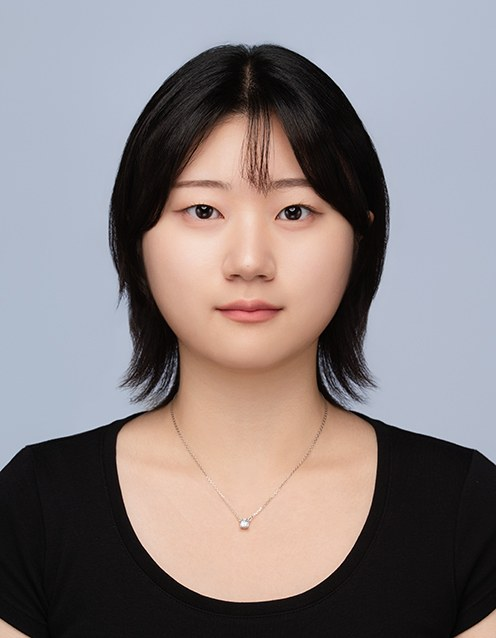
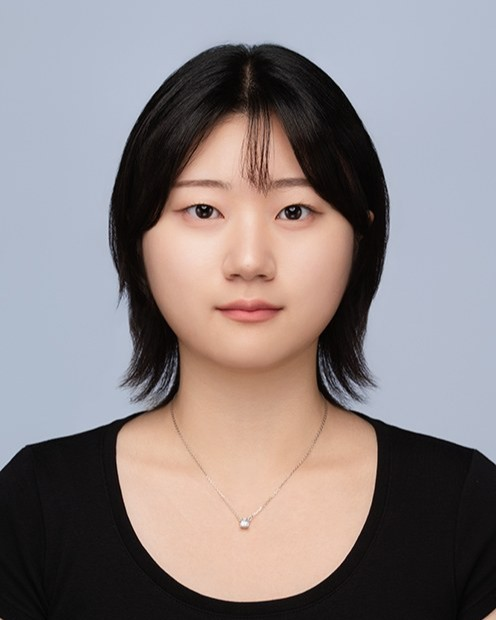
feat: 프로필 사진 및 역할 추가

diff --git a/result_page.py b/result_page.py
@@ -17,6 +17,15 @@ st.markdown(
     /* 표가 화면보다 넓으면 가로 스크롤 */
     [data-testid="stTable"] { overflow-x: auto; }
 
+    /* 프로필 다이얼로그 사진: 모두 같은 크기, 가운데 정렬 */
+    [data-testid="stDialog"] [data-testid="stImage"] img {
+        width: 209px !important;
+        height: 261px !important;
+        object-fit: cover;        /* 비율이 다르면 가장자리를 잘라서 채움 */
+        object-position: top;     /* 얼굴이 위쪽이니 위를 기준으로 자름 */
+        border-radius: 12px;
+    }
+
     @media (max-width: 640px) {
         /* 여백 줄이기 */
         .block-container { padding: 4rem 0.8rem 3rem !important; }
@@ -54,16 +63,22 @@ DEFAULT_IMG = "image/임시.webp"
 
 TEAM = {
     "연구 책임자": [
-        dict(emoji="🐰", name="권보미", org="숙명여자대학교", birth="2001.??.??", mbti="ENFP..?"),
-    ],
+        dict(emoji="🐰", name="권보미", org="숙명여자대학교",
+             role="연구 기획, 운영 / 예산 총괄 / 생성 모델 설계 및 실험 총괄",
+             birth="2001.??.??", mbti="ENFP..?"),],
     "연구 팀원": [
-        dict(emoji="🐱", name="박세은", org="숙명여자대학교", birth="2005.09.16", mbti="ISTP?"),
-        dict(emoji="👻", name="박윤지", org="숙명여자대학교", birth="2005.12.28", mbti="INFP",
-             img="image/profile/박윤지.jpg", center_img=True),
+        dict(emoji="🐱", name="박세은", org="숙명여자대학교",
+             role="자세 데이터셋 구축 및 전처리 / 1차 멘토링 주관",
+             birth="2005.09.16", mbti="INTP", img="image/profile/박세은.png"),
+        dict(emoji="👻", name="박윤지", org="숙명여자대학교",
+             role="평가 검증 및 비교 실험 / 2차 멘토링 주관",
+             birth="2005.12.28", mbti="INFP", img="image/profile/박윤지.jpg"),
     ],
     "중고등학생 팀원": [
-        dict(emoji="🍀", name="이하은", org="채드윅국제학교", birth="2010.10.01", mbti="INTP"),
-        dict(emoji="🍒", name="장희원", org="민족사관고등학교", birth="2010.04.08", mbti="ESTJ"),
+        dict(emoji="🍀", name="이하은", org="채드윅국제학교",
+             role="생성 결과 분석 / 연구 결과 시각화 / 웹페이지 구현", birth="2010.10.01", mbti="INTP"),
+        dict(emoji="🍒", name="장희원", org="민족사관고등학교",
+             role="생성 결과 분석 / 연구 결과 시각화 / 웹페이지 구현", birth="2010.04.08", mbti="ESTJ"),
     ],
 }
 
@@ -117,13 +132,10 @@ def show_images(paths, n_cols=4):
 
 @st.dialog("프로필")
 def show_profile(p):
-    img = p.get("img", DEFAULT_IMG)
-    if p.get("center_img"):
-        st.columns([1, 2, 1])[1].image(img)
-    else:
-        st.image(img)
+    st.image(str(BASE_DIR / p.get("img", DEFAULT_IMG)))
     st.write(f"이름: {p['name']}")
     st.write(f"소속: {p['org']}")
+    st.write(f"역할: {p['role']}")
     st.write(f"생년월일: {p['birth']}")
     st.write(f"MBTI: {p['mbti']}")
 
